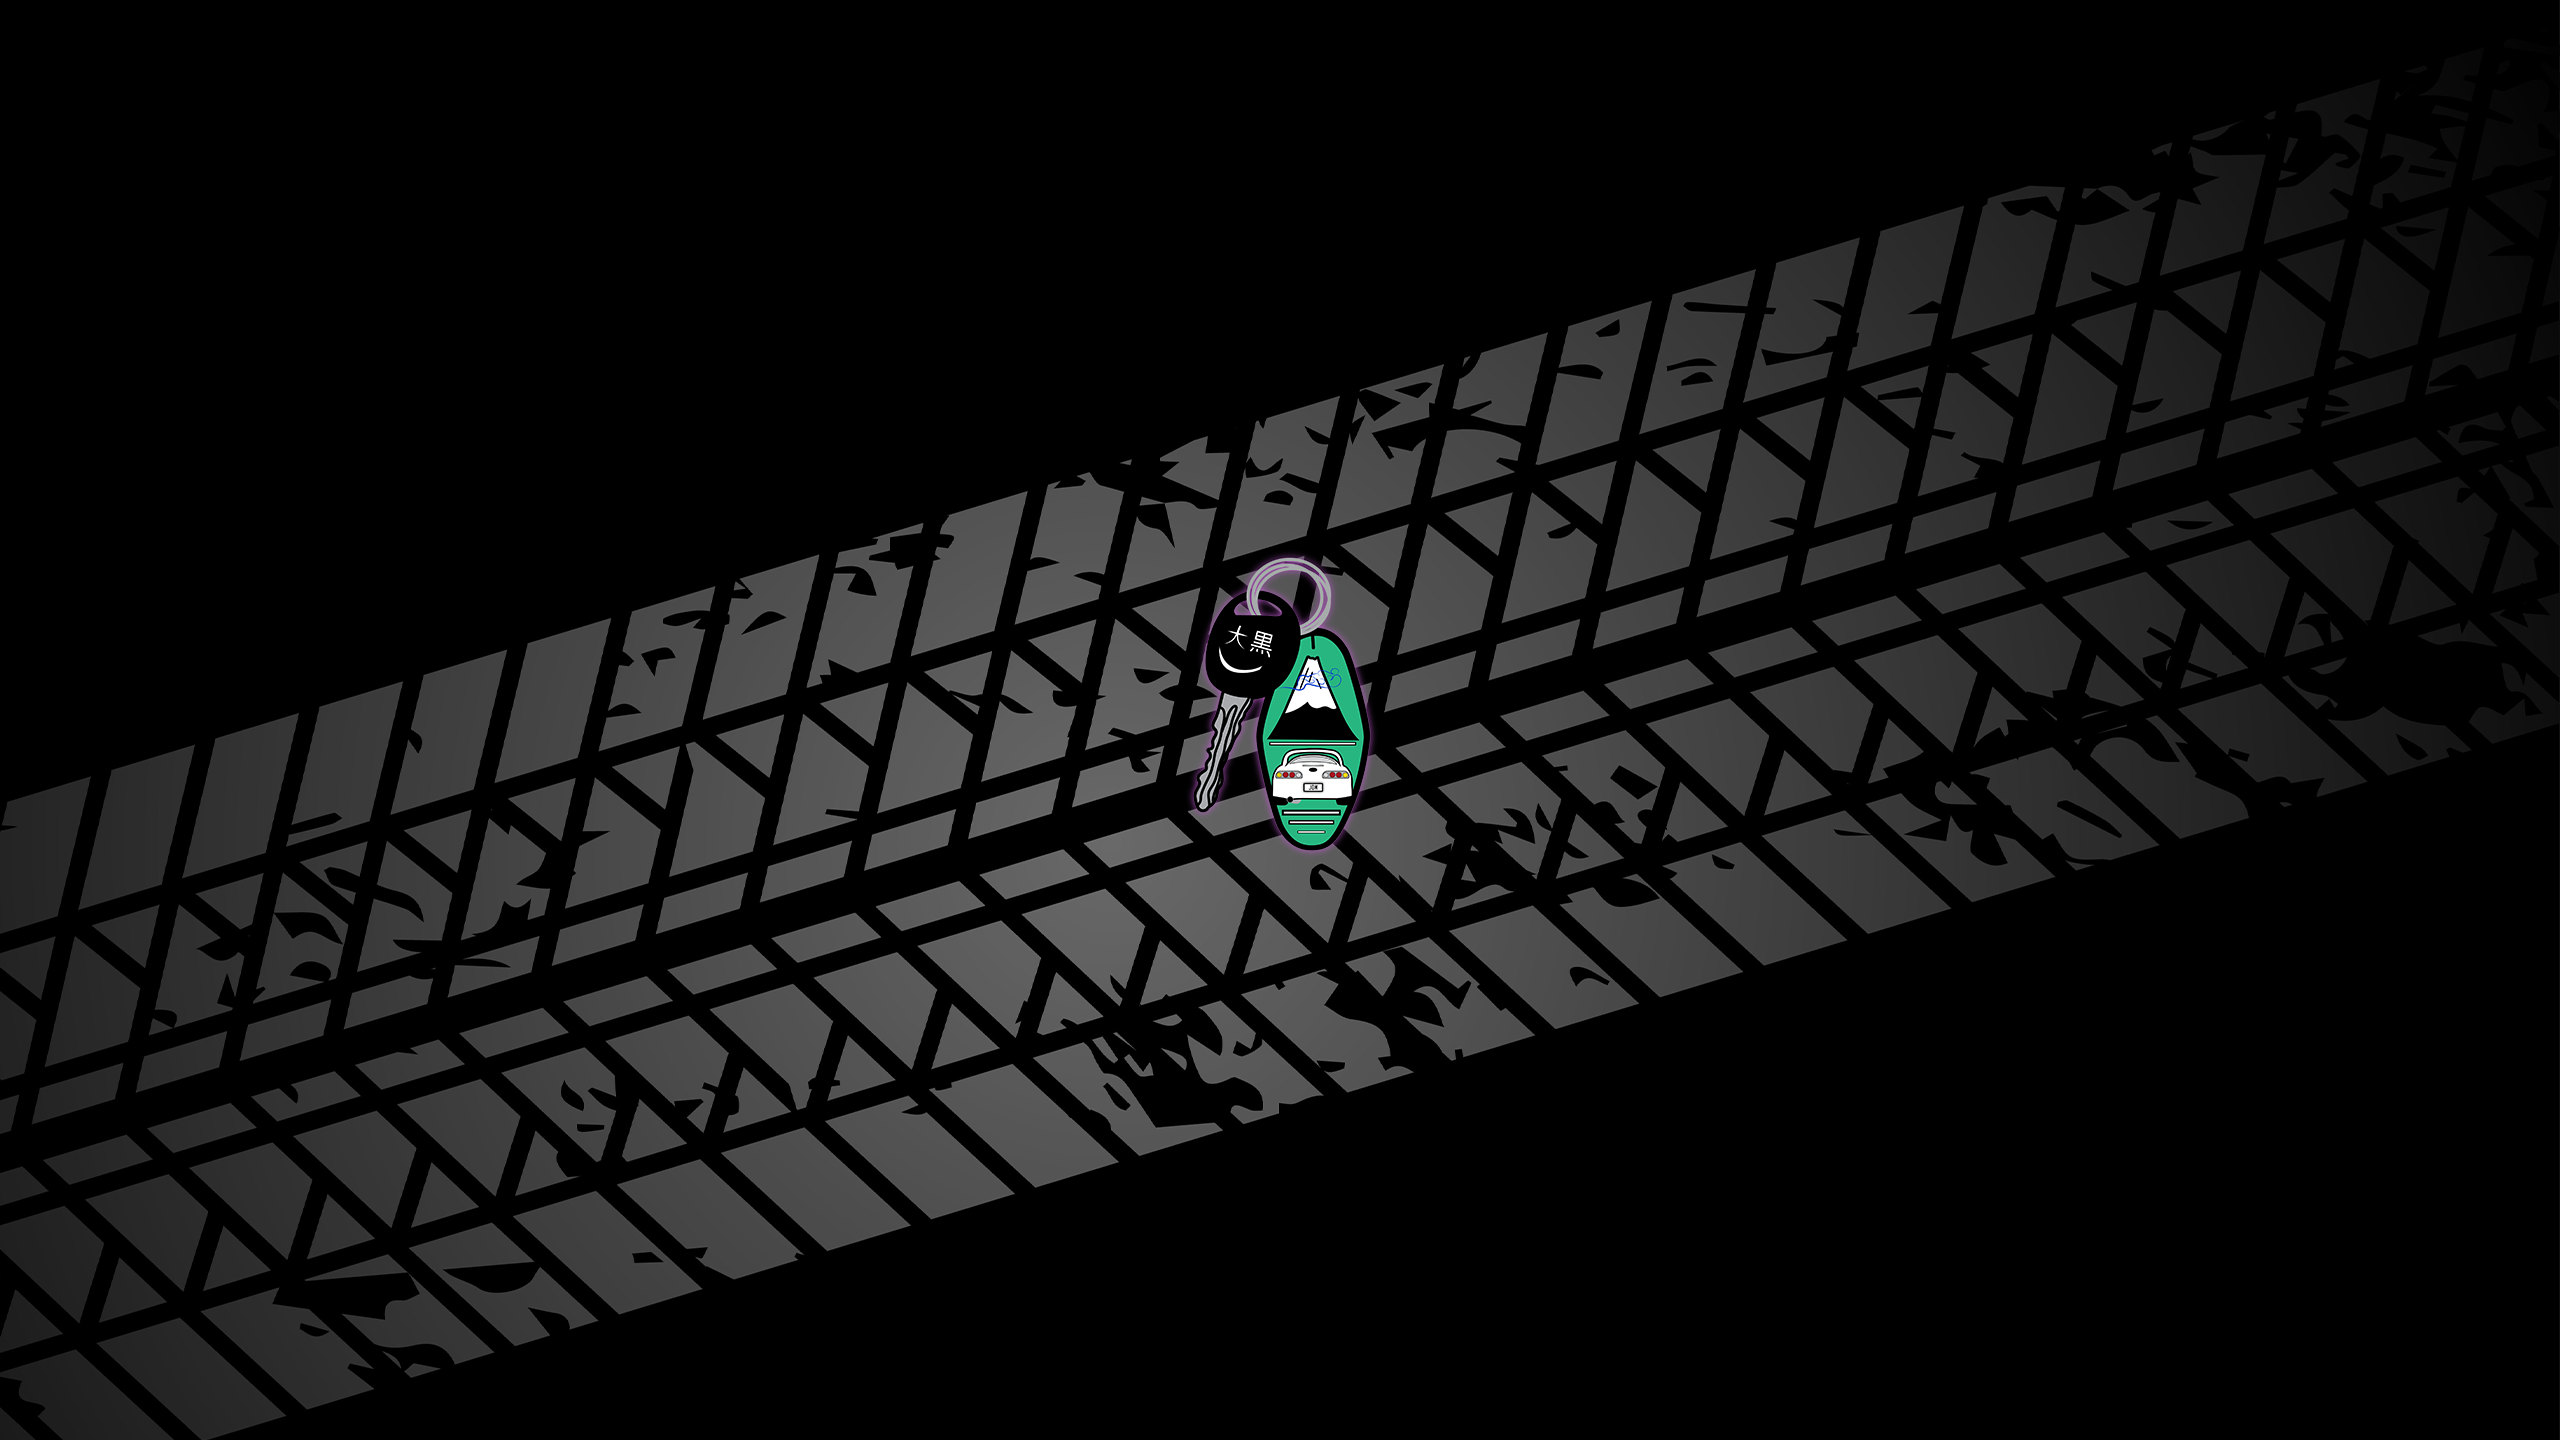
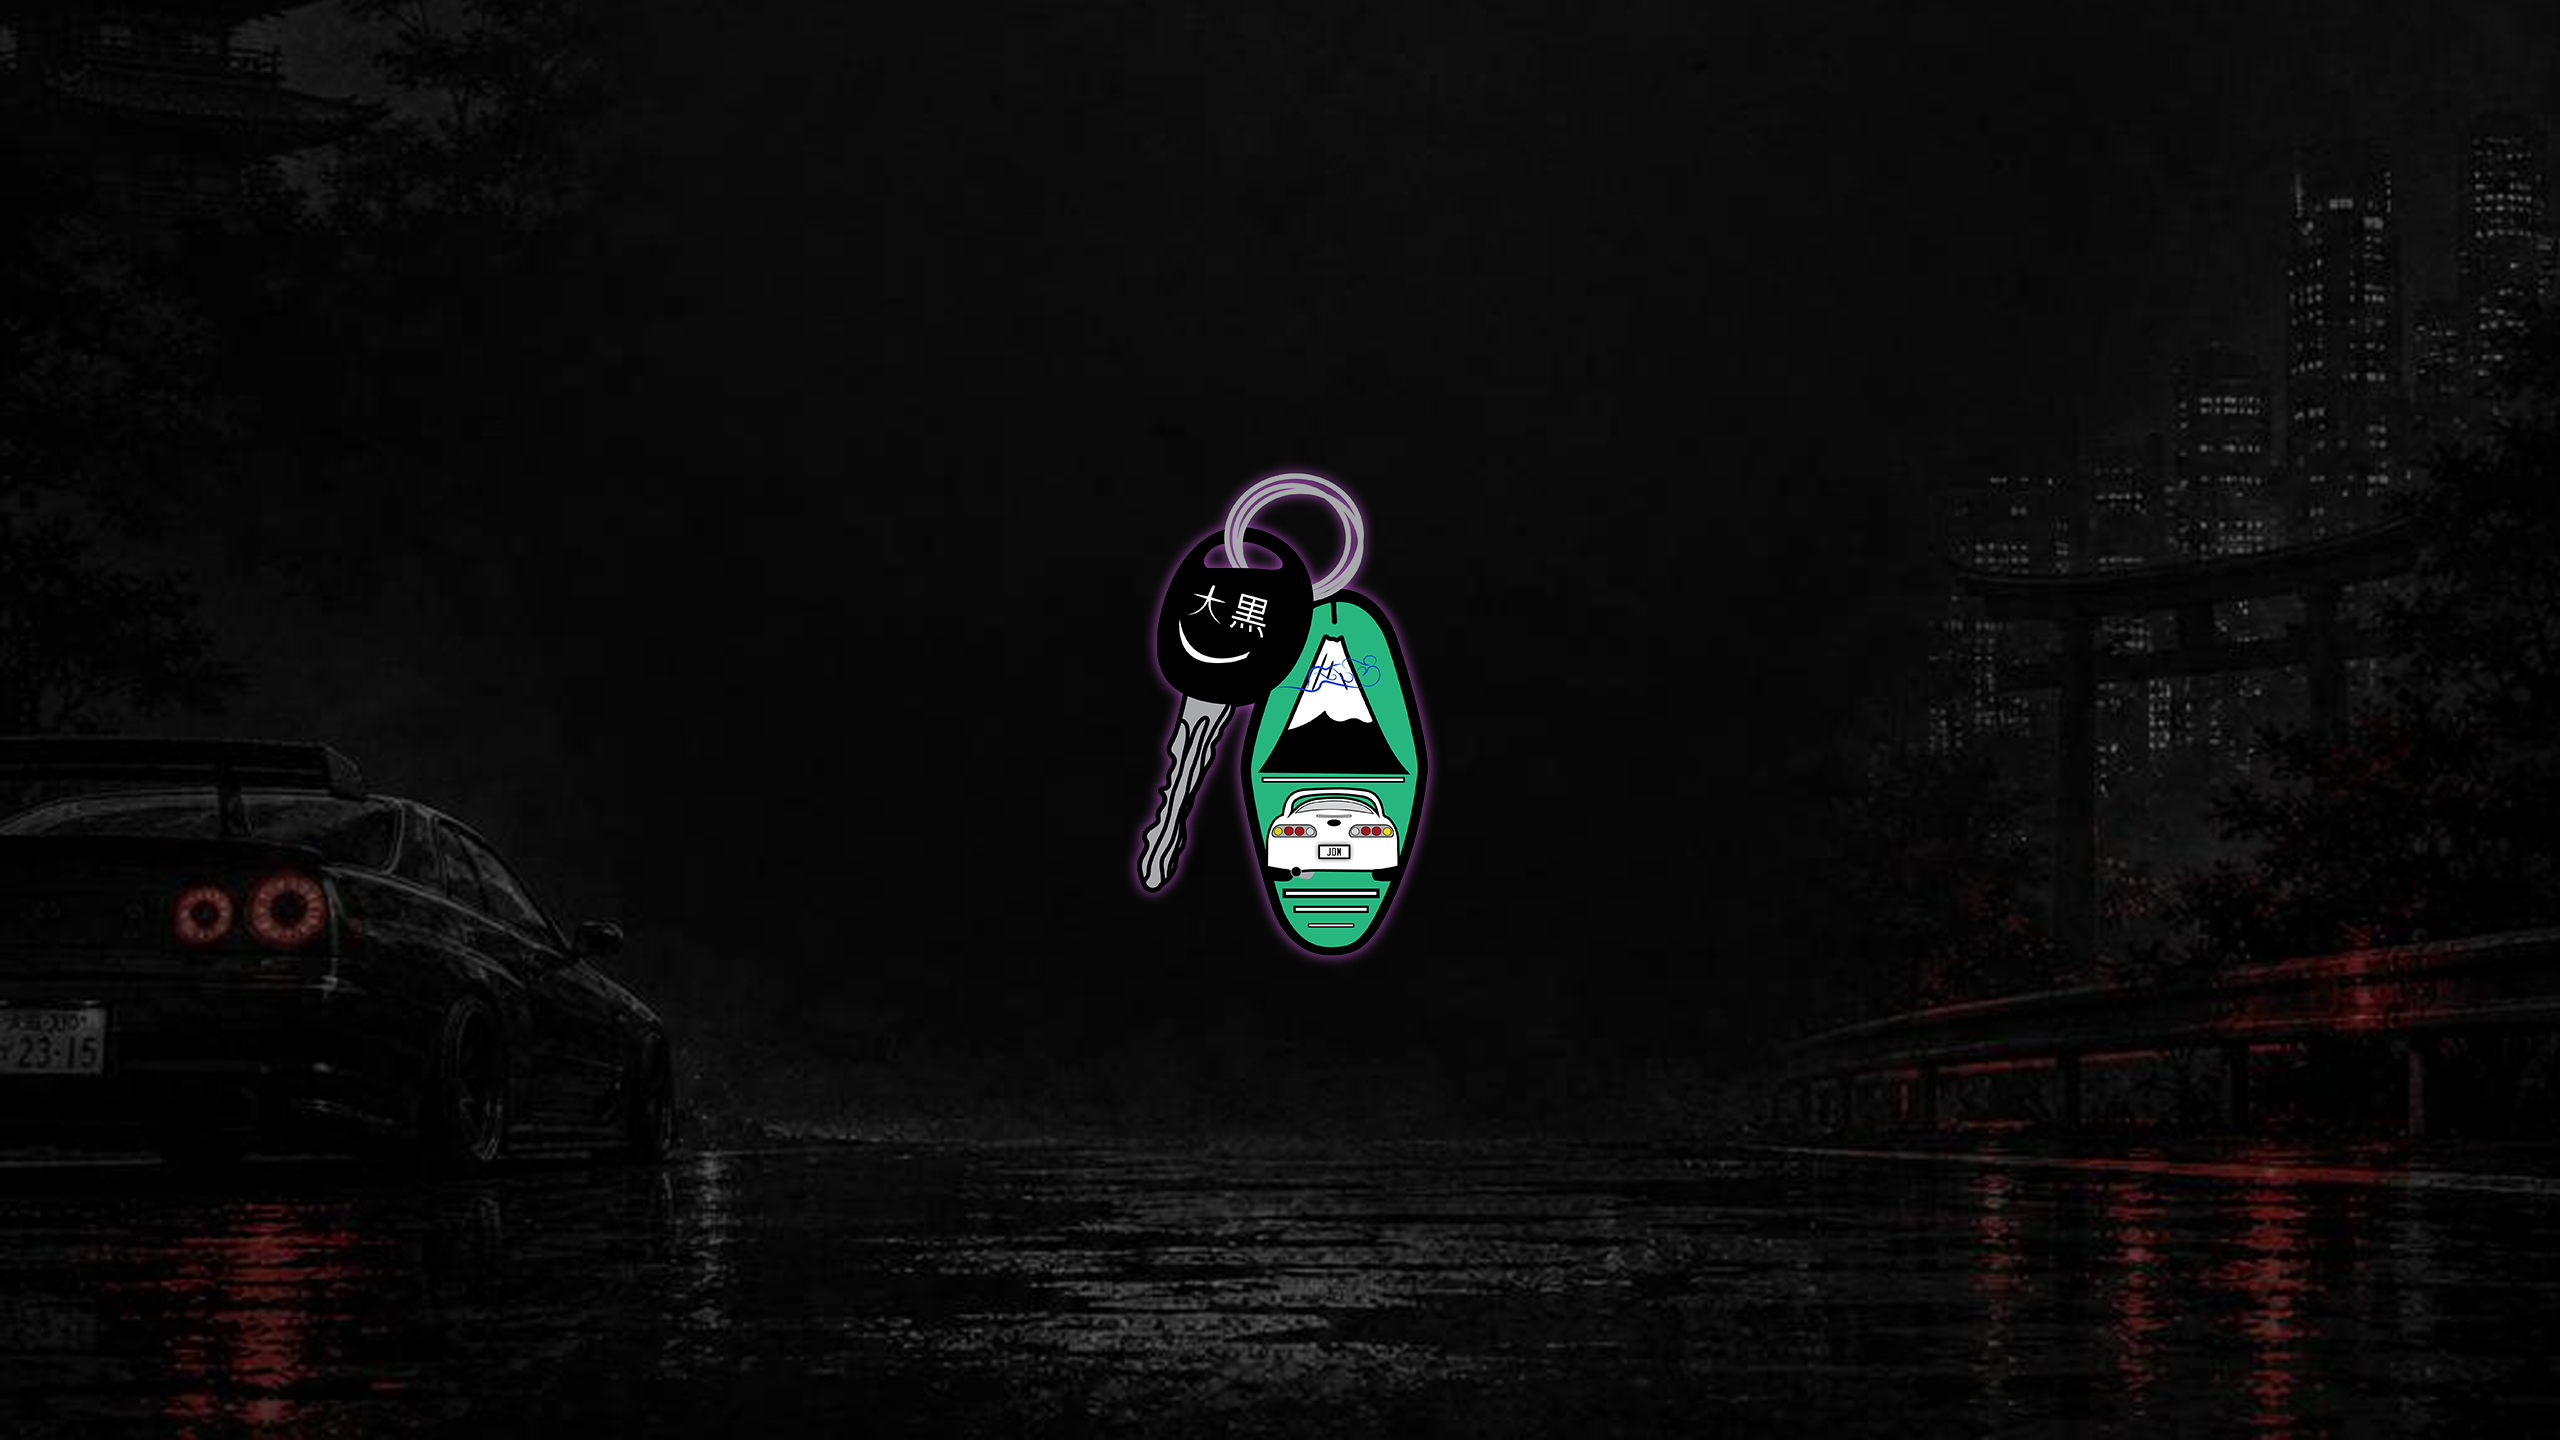
Season 21 Stickers Update
Replaced old franchises. Added MYT, BS, and COS. Also added new special season stickers made by Skimix. Updated the assets, json, and readme. Updated the background for JDM.

diff --git a/js/config.js b/js/config.js
@@ -1,24 +1,24 @@
 // Team and asset configurations with franchise IDs
 export const TEAMS = [
   { id: '50', prefix: 'AG' , name: 'All Good'},
-  { id: '62', prefix: 'FLT', name: 'Armada'},
   { id: '19', prefix: 'ATL', name: 'Atlantis' },
-  { id: '11', prefix: 'ATO', name: 'Automata' },
   { id: '12', prefix: 'AVI', name: 'The Aviary' },
+  { id: '65', prefix: 'COS', name: 'Cosmic' },
   { id: '9', prefix: 'BCH', name: 'The Beach' },
   { id: '29', prefix: 'BOA', name: 'Kingsnakes' },
-  { id: '10', prefix: 'BOO', name: 'The Red Room' },
+  { id: '10', prefix: 'BS', name: 'Big Slime' },
   { id: '20', prefix: 'COW', name: 'What Do You Beef' },
   { id: '0', prefix: 'CSC', name: 'CSC' }, // Original CSC team
   { id: '30', prefix: 'DRG', name: 'Pact of Embers' },
+  { id: '62', prefix: 'FLT', name: 'Armada'},
   { id: '52', prefix: 'FNL', name: 'Final Girl' },
   { id: '25', prefix: 'FRG', name: 'The Toad-em Pole' },
   { id: '55', prefix: 'GF', name: "Gone Fishin'" },
   { id: '13', prefix: 'H4K', name: 'H4ck3r H4v3n' },
   { id: '3', prefix: 'HG', name: "Headhunter's Guild" },
-  { id: '48', prefix: 'HR', name: 'The High Rollers' },
   { id: '63', prefix: 'JDM', name: 'Midnight Club'},
   { id: '4', prefix: 'NAN', name: 'NAdes' },
+  { id: '64', prefix: 'MYT', name: 'The Acheron' },
   { id: '6', prefix: 'OS', name: 'Order of the Samurai' },
   { id: '54', prefix: 'TEE', name: 'The 19th Hole' },
   { id: '14', prefix: 'UPS', name: 'Upsetti Spaghetti' },
@@ -73,6 +73,18 @@ export const ASSET_TYPES = {
     height: 512, 
     displayName: 'Sticker Shadow',
     filename: 'Sticker Shadow.png'
+  },
+  SeasonTeamSticker: {
+    width: 512,
+    height: 512,
+    displayName: 'Season Team Sticker',
+    filename: 'SeasonTeamSticker.png'
+  },
+  SeasonSignatureSticker: {
+    width: 512,
+    height: 512,
+    displayName: 'Season Signature Sticker',
+    filename: 'SeasonSignatureSticker.png'
   }
 };
 

diff --git a/docs/ASSETS.md b/docs/ASSETS.md
@@ -12,11 +12,11 @@ The application supports 22 CSC franchise teams, each with standardized asset co
 teams/
 ├── AG/               # All Good
 ├── ATL/              # Atlantis  
-├── ATO/              # Automata
 ├── AVI/              # The Aviary
 ├── BOA/              # Kingsnakes
-├── BOO/              # The Red Room
 ├── BCH/              # The Beach
+├── BS/               # Big Slime
+├── COS/              # Cosmic
 ├── COW/              # What Do You Beef
 ├── CSC/              # CSC
 ├── DRG/              # Pact of Embers
@@ -27,7 +27,7 @@ teams/
 ├── JDM/              # Midnight Club
 ├── H4K/              # H4ck3r H4v3n
 ├── HG/               # Headhunter's Guild
-├── HR/               # The High Rollers
+├── MYT/              # The Archeron
 ├── NAN/              # NAdes
 ├── OS/               # Order of the Samurai
 ├── TEE/              # The 19th Hole
@@ -37,7 +37,7 @@ teams/
 
 ## Asset Types
 
-Each team directory contains up to 8 standardized asset files:
+Each team directory contains up to 10 standardized asset files:
 
 ### Core Assets (All Teams)
 - `DesktopBackground.png` - 1920×1080 desktop wallpaper
@@ -51,6 +51,10 @@ Each team directory contains up to 8 standardized asset files:
 - `TwitterBanner.png` - 1500×500 Twitter/X header image
 - `YoutubeBanner.png` - 2560×1440 YouTube channel art
 
+### Special Assets (All Teams)
+- `SeasonTeamSticker` - 512x512 special seasonal sticker
+- `SeasonSignatureSticker` - 512x512 seasonal sticker for signatures
+
 ## Team Details
 
 ### Complete Team List
@@ -59,11 +63,11 @@ Each team directory contains up to 8 standardized asset files:
 |----|--------|-----------|-----------|
 | 50 | AG  | All Good | `/teams/AG/` |
 | 19 | ATL | Atlantis | `/teams/ATL/` |
-| 11 | ATO | Automata | `/teams/ATO/` |
 | 12 | AVI | The Aviary | `/teams/AVI/` |
-| 9 | BCH | The Beach | `/teams/BCH/` |
-| 29 | BOA | Kingsnakes | `/teams/BOA/` |
-| 10 | BOO | The Red Room | `/teams/BOO/` |
+| 61 | BCH | The Beach | `/teams/BCH/` |
+| 59 | BOA | Kingsnakes | `/teams/BOA/` |
+| 10 | BS | Big Slime | `/teams/BS/` |
+| 65 | COS | Cosmic | `/teams/COS/` |
 | 20 | COW | What Do You Beef | `/teams/COW/` |
 | 0 | CSC | CSC | `/teams/CSC/` |
 | 30 | DRG | Pact of Embers | `/teams/DRG/` |
@@ -74,7 +78,7 @@ Each team directory contains up to 8 standardized asset files:
 | 63 | JDM | Midnight Club | `/teams/JDM/` |
 | 13 | H4K | H4ck3r H4v3n | `/teams/H4K/` |
 | 3 | HG | Headhunter's Guild | `/teams/HG/` |
-| 48 | HR | The High Rollers | `/teams/HR/` |
+| 64 | MYT | The Acheron | `/teams/MYT/` |
 | 4 | NAN | NAdes | `/teams/NAN/` |
 | 6 | OS | Order of the Samurai | `/teams/OS/` |
 | 54 | TEE | The 19th Hole | `/teams/TEE/` |
@@ -101,6 +105,8 @@ Each team directory contains up to 8 standardized asset files:
 | TwitchBanner | 1920×480 | PNG | Twitch channel banners |
 | TwitterBanner | 1500×500 | PNG | Twitter/X headers |
 | YoutubeBanner | 2560×1440 | PNG | YouTube channel art |
+| SeasonTeamSticker | 512x512 | PNG | Seaonal Team Sticker |
+| SeasonnsignatureSticker | 512x512 | PNG | Signature sticker with slightly more transparency on Franchise Logo | 
 
 ### File Naming Conventions
 - **Exact Match Required**: File names must match exactly (case-sensitive)
@@ -117,31 +123,31 @@ Each team directory contains up to 8 standardized asset files:
 
 ## Asset Availability Matrix
 
-| Team | Desktop | Discord | Profile | Sticker | Shadow | Twitch | Twitter | YouTube |
-|------|---------|---------|---------|---------|--------|--------|---------|---------|
-| AG  | ✅ | ✅ | ✅ | ✅ | ✅ | ✅ | ✅ | ✅ |
-| ATL | ✅ | ✅ | ✅ | ✅ | ✅ | ✅ | ✅ | ✅ |
-| ATO | ✅ | ✅ | ✅ | ✅ | ✅ | ✅ | ✅ | ✅ |
-| AVI | ✅ | ✅ | ✅ | ✅ | ✅ | ✅ | ❌ | ❌ |
-| BCH | ✅ | ✅ | ✅ | ✅ | ✅ | ✅ | ✅ | ✅ |
-| BOA | ✅ | ✅ | ✅ | ✅ | ✅ | ✅ | ✅ | ✅ |
-| BOO | ✅ | ✅ | ✅ | ✅ | ✅ | ✅ | ✅ | ✅ |
-| COW | ✅ | ✅ | ✅ | ✅ | ✅ | ✅ | ✅ | ✅ |
-| CSC | ✅ | ✅ | ✅ | ✅ | ✅ | ✅ | ✅ | ✅ |
-| DRG | ✅ | ✅ | ✅ | ✅ | ✅ | ✅ | ✅ | ✅ |
-| FLT | ✅ | ✅ | ✅ | ✅ | ❌ | ✅ | ✅ | ✅ |
-| FNL | ✅ | ✅ | ✅ | ✅ | ✅ | ✅ | ✅ | ✅ |
-| FRG | ✅ | ✅ | ✅ | ✅ | ✅ | ✅ | ✅ | ✅ |
-| GF  | ✅ | ✅ | ✅ | ✅ | ✅ | ✅ | ✅ | ✅ |
-| JDM | ✅ | ✅ | ✅ | ✅ | ✅ | ✅ | ✅ | ✅ |
-| H4K | ✅ | ✅ | ✅ | ✅ | ✅ | ✅ | ✅ | ✅ |
-| HG  | ✅ | ✅ | ✅ | ✅ | ✅ | ✅ | ✅ | ✅ |
-| HR  | ✅ | ✅ | ✅ | ✅ | ✅ | ✅ | ✅ | ✅ |
-| NAN | ✅ | ✅ | ✅ | ✅ | ✅ | ✅ | ✅ | ✅ |
-| OS  | ✅ | ✅ | ✅ | ✅ | ✅ | ✅ | ✅ | ✅ |
-| TEE | ✅ | ✅ | ✅ | ✅ | ✅ | ✅ | ✅ | ✅ |
-| UPS | ✅ | ✅ | ✅ | ✅ | ✅ | ✅ | ✅ | ✅ |
-| WIZ | ✅ | ✅ | ✅ | ✅ | ✅ | ✅ | ✅ | ✅ |
+| Team | Desktop | Discord | Profile | Sticker | Shadow | Twitch | Twitter | YouTube | Season Sticker | Season Signature |
+|------|---------|---------|---------|---------|--------|--------|---------|---------|----------------|------------------|
+| AG  | ✅ | ✅ | ✅ | ✅ | ✅ | ✅ | ✅ | ✅ | ✅ | ✅ |
+| ATL | ✅ | ✅ | ✅ | ✅ | ✅ | ✅ | ✅ | ✅ | ✅ | ✅ |
+| ATO | ✅ | ✅ | ✅ | ✅ | ✅ | ✅ | ✅ | ✅ | ✅ | ✅ |
+| AVI | ✅ | ✅ | ✅ | ✅ | ✅ | ✅ | ❌ | ❌ | ✅ | ✅ |
+| BCH | ✅ | ✅ | ✅ | ✅ | ✅ | ✅ | ✅ | ✅ | ✅ | ✅ |
+| BOA | ✅ | ✅ | ✅ | ✅ | ✅ | ✅ | ✅ | ✅ | ✅ | ✅ |
+| BOO | ✅ | ✅ | ✅ | ✅ | ✅ | ✅ | ✅ | ✅ | ✅ | ✅ |
+| COW | ✅ | ✅ | ✅ | ✅ | ✅ | ✅ | ✅ | ✅ | ✅ | ✅ |
+| CSC | ✅ | ✅ | ✅ | ✅ | ✅ | ✅ | ✅ | ✅ | ❌ | ✅ | 
+| DRG | ✅ | ✅ | ✅ | ✅ | ✅ | ✅ | ✅ | ✅ | ✅ | ✅ |
+| FLT | ✅ | ✅ | ✅ | ✅ | ❌ | ✅ | ✅ | ✅ | ✅ | ✅ |
+| FNL | ✅ | ✅ | ✅ | ✅ | ✅ | ✅ | ✅ | ✅ | ✅ | ✅ |
+| FRG | ✅ | ✅ | ✅ | ✅ | ✅ | ✅ | ✅ | ✅ | ✅ | ✅ |
+| GF  | ✅ | ✅ | ✅ | ✅ | ✅ | ✅ | ✅ | ✅ | ✅ | ✅ |
+| JDM | ✅ | ✅ | ✅ | ✅ | ✅ | ✅ | ✅ | ✅ | ✅ | ✅ |
+| H4K | ✅ | ✅ | ✅ | ✅ | ✅ | ✅ | ✅ | ✅ | ✅ | ✅ |
+| HG  | ✅ | ✅ | ✅ | ✅ | ✅ | ✅ | ✅ | ✅ | ✅ | ✅ |
+| HR  | ✅ | ✅ | ✅ | ✅ | ✅ | ✅ | ✅ | ✅ | ✅ | ✅ |
+| NAN | ✅ | ✅ | ✅ | ✅ | ✅ | ✅ | ✅ | ✅ | ✅ | ✅ |
+| OS  | ✅ | ✅ | ✅ | ✅ | ✅ | ✅ | ✅ | ✅ | ✅ | ✅ |
+| TEE | ✅ | ✅ | ✅ | ✅ | ✅ | ✅ | ✅ | ✅ | ✅ | ✅ |
+| UPS | ✅ | ✅ | ✅ | ✅ | ✅ | ✅ | ✅ | ✅ | ✅ | ✅ |
+| WIZ | ✅ | ✅ | ✅ | ✅ | ✅ | ✅ | ✅ | ✅ | ✅ | ✅ |
 
 **Summary:**
 - **Complete Asset Sets**: 21 teams have all 8 asset types

diff --git a/README.md b/README.md
@@ -82,11 +82,12 @@ The application supports all 22 CSC franchise teams:
 |------|--------|-----------|
 | AG  | AG  | All Good |
 | ATL | ATL | Atlantis |
-| ATO | ATO | Automata |
 | AVI | AVI | The Aviary |
 | BCH | BCH | The Beach |
 | BOA | BOA | Kingsnakes |
-| BOO | BOO | The Red Room |
+| BS | BS | Big Slime |
+| MYT | MYT | The Acheron |
+| COS | COS | Cosmic |
 | COW | COW | What Do You Beef |
 | CSC | CSC | CSC |
 | DRG | DRG | Pact of Embers |
@@ -97,7 +98,8 @@ The application supports all 22 CSC franchise teams:
 | JDM | JDM | Midnight Club |
 | H4K | H4K | H4ck3r H4v3n |
 | HG | HG | Headhunter's Guild |
-| HR | HR | The High Rollers |
+| JDM | JDM | Midnight Club |
+| MYT | MYT | The Acheron |
 | NAN | NAN | NAdes |
 | OS | OS | Order of the Samurai |
 | TEE | TEE | The 19th Hole |
@@ -118,6 +120,7 @@ Each team includes the following asset types:
 | Desktop Background | 1920×1080 | Full HD wallpaper |
 | Sticker | 512×512 | Square sticker design |
 | Sticker Shadow | 512×512 | Sticker with shadow effect |
+| Season Sticker | 512x512 | Special seasonal sticker, brought to you by Skimix |
 
 ## 🔧 Technical Details
 
@@ -195,7 +198,7 @@ For issues or questions:
 ## 🏆 Credits
 
 - **Development**: chobits (2025)
-- **Sticker Designs**: spideY and chobits; Cameron King (2026)
+- **Sticker Designs**: spideY and chobits; Cameron King and Skimix (2026) 
 - **Team Assets**: CSC Franchise Teams
 - **Architecture**: Modular ES6 JavaScript
 
